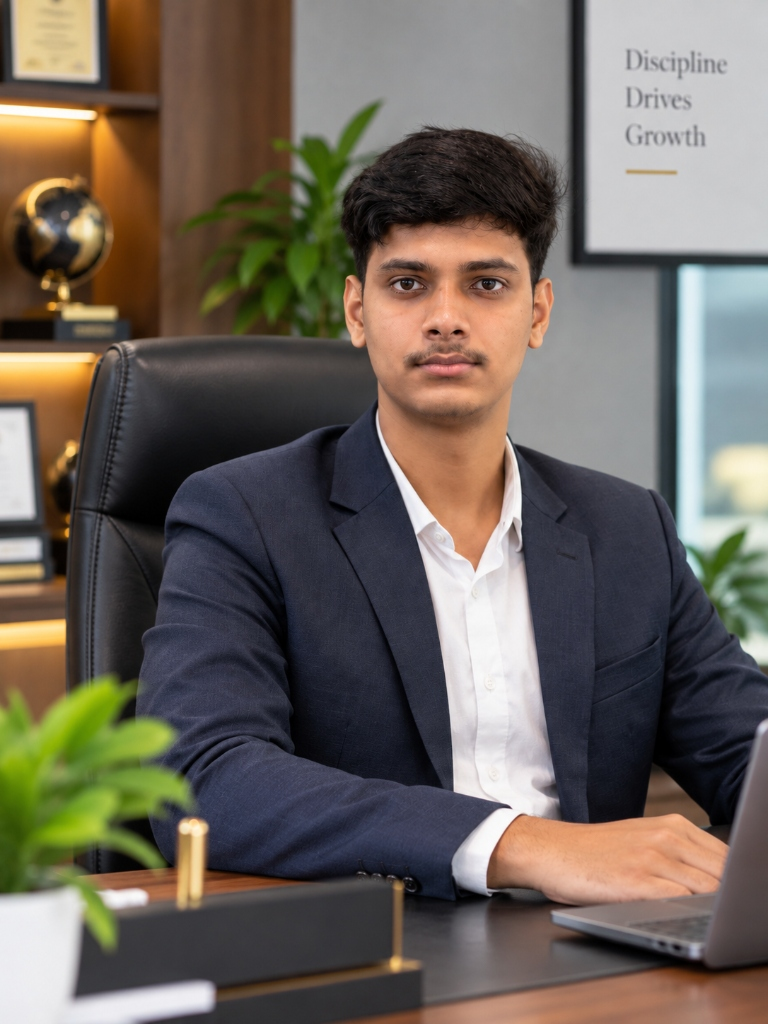
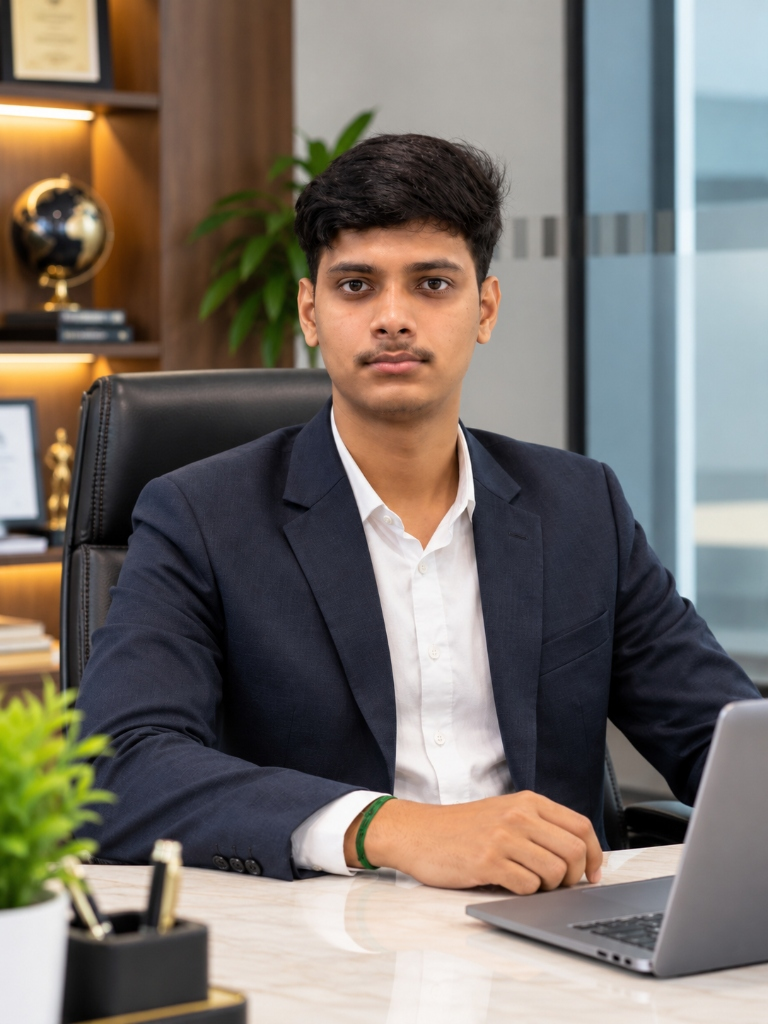
Update team photos for Bhavarth Hapani, B.S. Chouhan, Dinesh Bhuva, Utkarsh Mishra, and Vishal Maurya

diff --git a/management.html b/management.html
@@ -12,7 +12,7 @@
 <meta http-equiv="Cache-Control" content="no-cache, no-store, must-revalidate">
 <meta http-equiv="Pragma" content="no-cache">
 <meta http-equiv="Expires" content="0">
-<link rel="stylesheet" href="styles.css?v=111">
+<link rel="stylesheet" href="styles.css?v=112">
 </head>
 <body>
 
@@ -151,7 +151,7 @@
 
     <div class="team-arch-card">
      <div class="team-photo-frame" tabindex="0">
-      <img src="images/team-bs-chouhan.jpg?v=5" alt="Mr. B.S. Chouhan" class="team-photo-img" onerror="this.classList.add('is-hidden')">
+      <img src="images/team-bs-chouhan.jpg?v=6" alt="Mr. B.S. Chouhan" class="team-photo-img" onerror="this.classList.add('is-hidden')">
       <div class="team-photo-placeholder" aria-hidden="true">
        <span class="avatar-badge-arch">BC</span>
       </div>
@@ -198,7 +198,7 @@
 
     <div class="team-arch-card">
      <div class="team-photo-frame" tabindex="0">
-      <img src="images/team-dinesh-bhuva.jpg?v=5" alt="Mr. Dinesh Bhuva" class="team-photo-img" onerror="this.classList.add('is-hidden')">
+      <img src="images/team-dinesh-bhuva.jpg?v=6" alt="Mr. Dinesh Bhuva" class="team-photo-img" onerror="this.classList.add('is-hidden')">
       <div class="team-photo-placeholder" aria-hidden="true">
        <span class="avatar-badge-arch">DB</span>
       </div>
@@ -221,7 +221,7 @@
 
     <div class="team-arch-card">
      <div class="team-photo-frame" tabindex="0">
-      <img src="images/team-bhavarth-hapani.jpg?v=5" alt="Mr. Bhavarth Hapani" class="team-photo-img" onerror="this.classList.add('is-hidden')">
+      <img src="images/team-bhavarth-hapani.jpg?v=6" alt="Mr. Bhavarth Hapani" class="team-photo-img" onerror="this.classList.add('is-hidden')">
       <div class="team-photo-placeholder" aria-hidden="true">
        <span class="avatar-badge-arch">BH</span>
       </div>
@@ -244,7 +244,7 @@
 
     <div class="team-arch-card">
      <div class="team-photo-frame" tabindex="0">
-      <img src="images/team-vishal-maurya.jpg?v=5" alt="Mr. Vishal Maurya" class="team-photo-img" onerror="this.classList.add('is-hidden')">
+      <img src="images/team-vishal-maurya.jpg?v=6" alt="Mr. Vishal Maurya" class="team-photo-img" onerror="this.classList.add('is-hidden')">
       <div class="team-photo-placeholder" aria-hidden="true">
        <span class="avatar-badge-arch">VM</span>
       </div>
@@ -290,7 +290,7 @@
 
     <div class="team-arch-card">
      <div class="team-photo-frame" tabindex="0">
-      <img src="images/team-utkarsh-misra.jpg?v=5" alt="Mr. Utkarsh Mishra" class="team-photo-img" onerror="this.classList.add('is-hidden')">
+      <img src="images/team-utkarsh-misra.jpg?v=6" alt="Mr. Utkarsh Mishra" class="team-photo-img" onerror="this.classList.add('is-hidden')">
       <div class="team-photo-placeholder" aria-hidden="true">
        <span class="avatar-badge-arch">UM</span>
       </div>
@@ -440,7 +440,7 @@
  </div>
 </footer>
 
-<script src="main.js?v=111"></script>
+<script src="main.js?v=112"></script>
 <!-- FLOATING WHATSAPP CHAT BUTTON (+91 97275 64411) -->
 <a href="https://wa.me/919727564411" target="_blank" rel="noopener noreferrer" class="whatsapp-float-btn" aria-label="Chat with Sahjanand on WhatsApp (+91 97275 64411)" title="Chat on WhatsApp (+91 97275 64411)">
  <span class="wa-pulse" aria-hidden="true"></span>

diff --git a/contact.html b/contact.html
@@ -12,7 +12,7 @@
 <meta http-equiv="Cache-Control" content="no-cache, no-store, must-revalidate">
 <meta http-equiv="Pragma" content="no-cache">
 <meta http-equiv="Expires" content="0">
-<link rel="stylesheet" href="styles.css?v=111">
+<link rel="stylesheet" href="styles.css?v=112">
 </head>
 <body>
 
@@ -375,7 +375,7 @@
  </div>
 </footer>
 
-<script src="main.js?v=111"></script>
+<script src="main.js?v=112"></script>
 <!-- FLOATING WHATSAPP CHAT BUTTON (+91 97275 64411) -->
 <a href="https://wa.me/919727564411" target="_blank" rel="noopener noreferrer" class="whatsapp-float-btn" aria-label="Chat with Sahjanand on WhatsApp (+91 97275 64411)" title="Chat on WhatsApp (+91 97275 64411)">
  <span class="wa-pulse" aria-hidden="true"></span>

diff --git a/infrastructure.html b/infrastructure.html
@@ -12,7 +12,7 @@
 <meta http-equiv="Cache-Control" content="no-cache, no-store, must-revalidate">
 <meta http-equiv="Pragma" content="no-cache">
 <meta http-equiv="Expires" content="0">
-<link rel="stylesheet" href="styles.css?v=111">
+<link rel="stylesheet" href="styles.css?v=112">
 </head>
 <body>
 
@@ -325,7 +325,7 @@
  </div>
 </footer>
 
-<script src="main.js?v=111"></script>
+<script src="main.js?v=112"></script>
 <!-- FLOATING WHATSAPP CHAT BUTTON (+91 97275 64411) -->
 <a href="https://wa.me/919727564411" target="_blank" rel="noopener noreferrer" class="whatsapp-float-btn" aria-label="Chat with Sahjanand on WhatsApp (+91 97275 64411)" title="Chat on WhatsApp (+91 97275 64411)">
  <span class="wa-pulse" aria-hidden="true"></span>

diff --git a/milestones.html b/milestones.html
@@ -12,7 +12,7 @@
 <meta http-equiv="Cache-Control" content="no-cache, no-store, must-revalidate">
 <meta http-equiv="Pragma" content="no-cache">
 <meta http-equiv="Expires" content="0">
-<link rel="stylesheet" href="styles.css?v=111">
+<link rel="stylesheet" href="styles.css?v=112">
 </head>
 <body>
 
@@ -671,7 +671,7 @@
  </div>
 </footer>
 
-<script src="main.js?v=111"></script>
+<script src="main.js?v=112"></script>
 <!-- FLOATING WHATSAPP CHAT BUTTON (+91 97275 64411) -->
 <a href="https://wa.me/919727564411" target="_blank" rel="noopener noreferrer" class="whatsapp-float-btn" aria-label="Chat with Sahjanand on WhatsApp (+91 97275 64411)" title="Chat on WhatsApp (+91 97275 64411)">
  <span class="wa-pulse" aria-hidden="true"></span>

diff --git a/products.html b/products.html
@@ -12,7 +12,7 @@
 <meta http-equiv="Cache-Control" content="no-cache, no-store, must-revalidate">
 <meta http-equiv="Pragma" content="no-cache">
 <meta http-equiv="Expires" content="0">
-<link rel="stylesheet" href="styles.css?v=111">
+<link rel="stylesheet" href="styles.css?v=112">
 </head>
 <body>
 
@@ -804,7 +804,7 @@
  </div>
 </footer>
 
-<script src="main.js?v=111"></script>
+<script src="main.js?v=112"></script>
 <!-- FLOATING WHATSAPP CHAT BUTTON (+91 97275 64411) -->
 <a href="https://wa.me/919727564411" target="_blank" rel="noopener noreferrer" class="whatsapp-float-btn" aria-label="Chat with Sahjanand on WhatsApp (+91 97275 64411)" title="Chat on WhatsApp (+91 97275 64411)">
  <span class="wa-pulse" aria-hidden="true"></span>

diff --git a/index.html b/index.html
@@ -12,7 +12,7 @@
 <meta http-equiv="Cache-Control" content="no-cache, no-store, must-revalidate">
 <meta http-equiv="Pragma" content="no-cache">
 <meta http-equiv="Expires" content="0">
-<link rel="stylesheet" href="styles.css?v=111">
+<link rel="stylesheet" href="styles.css?v=112">
 </head>
 <body>
 
@@ -1266,7 +1266,7 @@
  </div>
 </div>
 
-<script src="main.js?v=111"></script>
+<script src="main.js?v=112"></script>
 <!-- FLOATING WHATSAPP CHAT BUTTON (+91 97275 64411) -->
 <a href="https://wa.me/919727564411" target="_blank" rel="noopener noreferrer" class="whatsapp-float-btn" aria-label="Chat with Sahjanand on WhatsApp (+91 97275 64411)" title="Chat on WhatsApp (+91 97275 64411)">
  <span class="wa-pulse" aria-hidden="true"></span>

diff --git a/investors.html b/investors.html
@@ -13,7 +13,7 @@
 <meta http-equiv="Pragma" content="no-cache">
 <meta http-equiv="refresh" content="0; url=./">
 <script>window.location.replace('./');</script>
-<link rel="stylesheet" href="styles.css?v=111">
+<link rel="stylesheet" href="styles.css?v=112">
 </head>
 <body>
 
@@ -298,7 +298,7 @@
  </div>
 </footer>
 
-<script src="main.js?v=111"></script>
+<script src="main.js?v=112"></script>
 <!-- FLOATING WHATSAPP CHAT BUTTON (+91 97275 64411) -->
 <a href="https://wa.me/919727564411" target="_blank" rel="noopener noreferrer" class="whatsapp-float-btn" aria-label="Chat with Sahjanand on WhatsApp (+91 97275 64411)" title="Chat on WhatsApp (+91 97275 64411)">
  <span class="wa-pulse" aria-hidden="true"></span>
